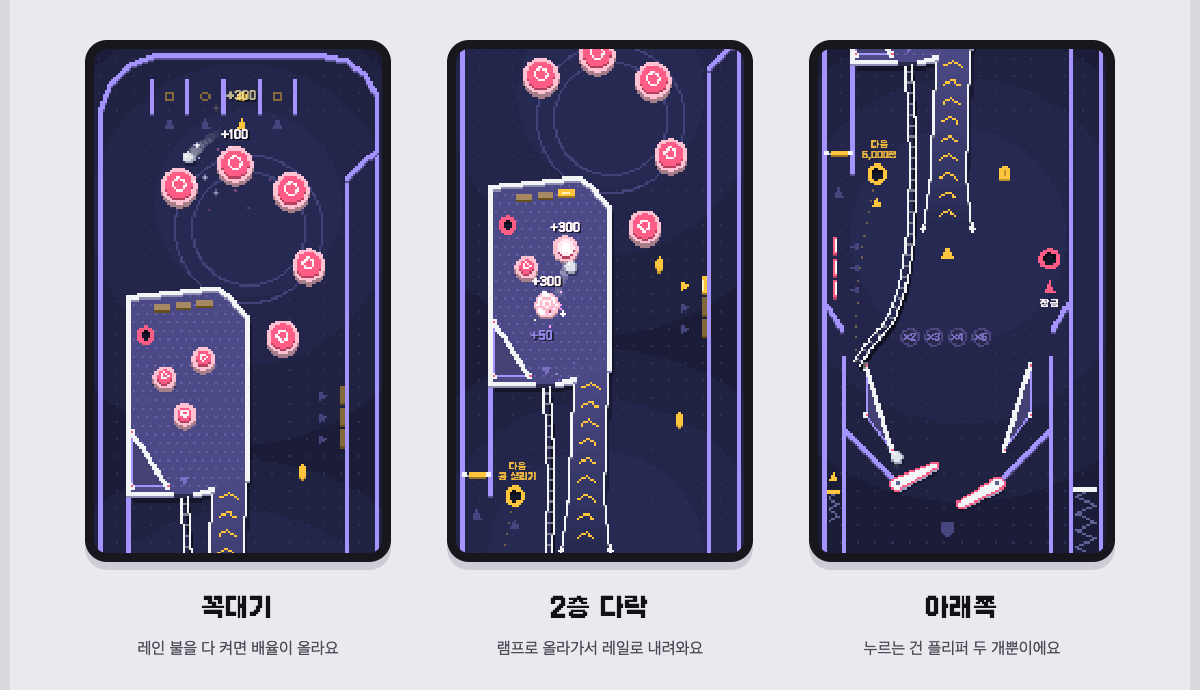
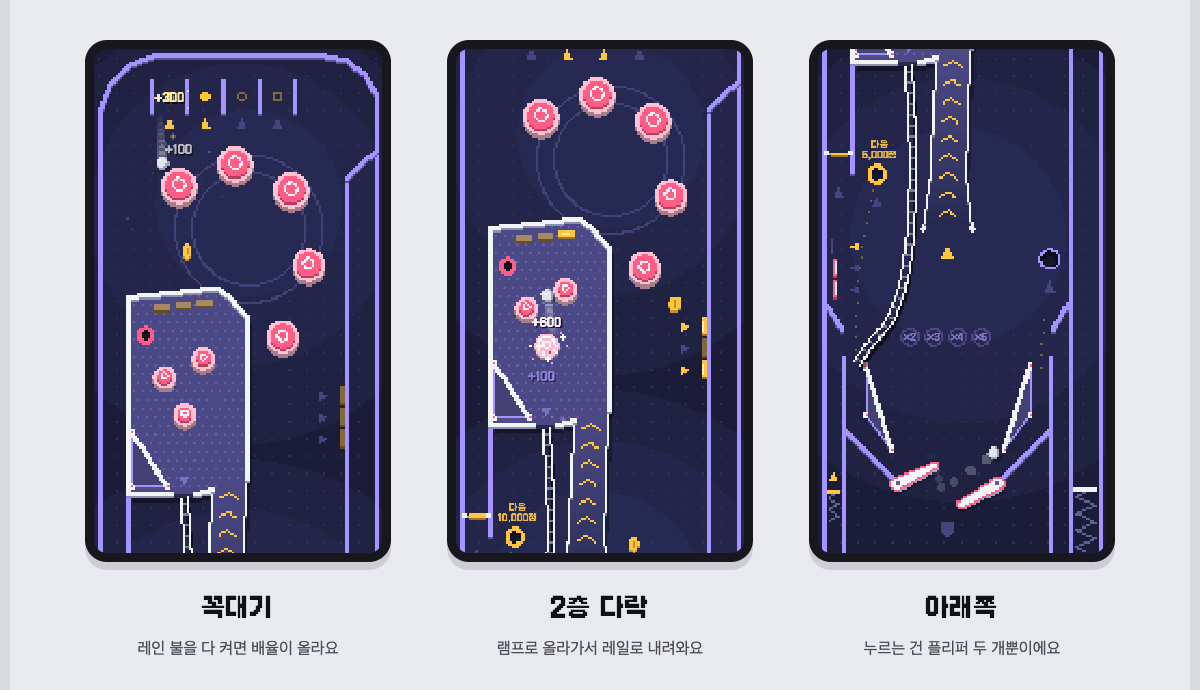
핀볼: 최종 검토에서 고친 것을 문서와 그림에 반영, 균형을 다시 잼
- 스펙 5.1~5.5, 6.1, 6.2, 9: 계산 간격, 잠금 구멍 미끄럼길, 공 살리기, 화면 따라가기, 경사 끝 좌표,
  고친 뒤 잰 값(무작위 봇 200판·1,200판, 반응 봇 200판), 최종 검토 뒤에 정한 것
- README: 공 살리기와 물리 설명, 테스트가 놓쳤던 잠금 구멍 문제
- 그림 세 장을 진짜 엔진·그리기 코드로 다시 찍음 (잠금 구멍 아래 점선이 생김)
- balance.test.ts: 코인 중앙값 기준을 30~90에서 35~60으로 좁힘

diff --git a/docs/superpowers/specs/2026-11-25-pinball-tower-design.md b/docs/superpowers/specs/2026-11-25-pinball-tower-design.md
@@ -1,6 +1,6 @@
 # 핀볼 새 판 "다락방 타워" 설계
 
-2026-11-25 · 상태: 사용자가 확정하고 진행을 지시함 · 만들기 끝 (브랜치 `pinball-tower`, 폰 확인 전)
+2026-11-25 · 상태: 사용자가 확정하고 진행을 지시함 · 만들기 끝, 최종 검토에서 나온 것까지 고침 (2026-11-26, 브랜치 `pinball-tower`, 폰 확인 전)
 
 ## 1. 왜 만드나
 
@@ -76,7 +76,7 @@
 | 7 | 범퍼 5개, 위쪽 레인 4개 | 예전 판은 3개씩이었어요 |
 | 8 | 돌아가는 길과 스피너 | 왼쪽 벽을 타고 꼭대기로 올라가요. 지나갈 때 스피너가 돌며 점수를 줘요 |
 | 9 | 보너스 구멍 | 들어갈 때마다 정해진 차례대로 보상을 하나 주고, 공을 미끄럼길로 왼쪽 플리퍼까지 내려 줘요 |
-| 10 | 드롭 타깃 3개 | 다 쓰러뜨리면 오른쪽 잠금 구멍에 불 → 넣으면 멀티볼 (예전 판과 같음) |
+| 10 | 드롭 타깃 3개 | 다 쓰러뜨리면 오른쪽 잠금 구멍에 불 → 넣으면 멀티볼 (예전 판과 같음). 잠금 구멍은 붙잡았던 공을 미끄럼길로 오른쪽 플리퍼까지 내려 줘요 |
 | 11 | 옆으로 빠지는 길과 킥백 | 왼쪽은 킥백이 켜져 있으면 한 번 살려 줘요 |
 | 12 | 오른쪽 타깃 3개 | 다 맞히면 킥백이 다시 켜져요 |
 
@@ -87,6 +87,7 @@
 - **램프가 판 가운데에 곧게 서요.** 처음 그림에서는 오른쪽에서 왼쪽으로 휘어 올라갔어요. 플리퍼 가운데쯤으로 친 공은 판 가운데(x 167~193)로 거의 곧게 올라가는데, 휜 램프는 난간에 크게 튕겨서 올라갈 수 있는 타이밍이 0.01~0.02초뿐이었어요. 곧은 램프는 어느 플리퍼로도 0.06초예요.
 - **다락 입구가 아래 오른쪽, 잭팟 구멍이 왼쪽 위로 갔어요.** 램프를 곧게 올라온 공이 오른쪽 벽을 타고 올라가 위쪽 타깃을 쓸고 범퍼로 떨어져요.
 - **보너스 구멍이 왼쪽으로 가고, 공을 뱉는 대신 미끄럼길로 내려 줘요.** 뱉으면 슬링샷이나 플리퍼에 세게 떨어져 가운데로 빠졌어요.
+- **잠금 구멍도 공을 뱉는 대신 미끄럼길로 내려 줘요.** 예전 판처럼 왼쪽 위로 뱉으면 가운데로 옮긴 램프의 난간에 맞고 돌아와 플리퍼 사이로 떨어졌어요 (5.3).
 - **레일이 램프 왼쪽 난간 옆으로 내려와요.** 처음 길은 보너스 구멍 위를 지나갔어요.
 - **바깥 길의 안쪽 벽이 판 바닥까지 이어져요.** 6.2에 이유를 적었어요.
 
@@ -111,12 +112,13 @@
 레일         (125,624) (130,680) (132,780) (128,880) (108,970) (70,1012) (52,1040) · 속도 180~620
 오른쪽 타깃  x=344 벽에 세로 막대 3개: y 470~494, 500~524, 530~554
 보너스 구멍  (82,774) 반지름 12 · 미끄럼길 (82,774) (64,850) (54,950) (51,1052) · 속도 240~520
-잠금 구멍    (322,892) 반지름 13
+잠금 구멍    (322,892) 반지름 13 · 미끄럼길 (322,892) (314,960) (309,1052) · 속도 240~520
 드롭 타깃    x=24에 세로 막대 3개: y 862~886, 892~916, 922~946
 배율 불      y=1000, x=128,161,194,227 (×2~×5)
 플리퍼       축 (110,1204) (250,1204), 길이 58, 쉬는 각 0.5rad, 올린 각 -0.45rad (오른쪽은 대칭)
 슬링샷       왼쪽 (66,1040) (66,1108) (102,1156). 오른쪽은 x=180 기준 대칭
-안쪽·바깥 길 나눔벽 x=36, y 1030~1129, 이어서 (36,1129)-(104,1198) 경사. 오른쪽은 대칭
+안쪽·바깥 길 나눔벽 x=36, y 1030~1129, 이어서 (36,1129)-(104,1197) 경사. 오른쪽은 대칭
+             경사 끝은 플리퍼 축보다 살짝 높아요. 1만 낮아도 속도가 거의 없는 공이 경사 끝과 축 사이에 얹혀 멈춰요
              바깥 길의 안쪽 벽은 (36,1129)에서 판 바닥 (36,1300)까지 이어져요. 오른쪽은 대칭
 지붕 가이드  (8,950)-(34,990), (350,950)-(326,990)
 킥백         감지 구역 x 10~36, y 1196~1300 · 머리 (22,1212) · 올려 보내는 길 (22,1202) (22,1045) (36,1010) (58,985) · 속도 900
@@ -132,7 +134,9 @@
 
 ### 5.3 물리
 
-지금 엔진의 방식은 그대로 써요: 한 프레임을 8번 나눠 적분, 속도 상한, 벽과 플리퍼를 두께 있는 선분(캡슐)으로 보는 충돌, 범퍼·슬링샷의 차는 힘.
+지금 엔진의 방식을 이어 써요: 속도 상한, 벽과 플리퍼를 두께 있는 선분(캡슐)으로 보는 충돌, 범퍼·슬링샷의 차는 힘.
+
+**계산 간격은 바꿨어요 (최종 검토에서 찾음).** 예전 엔진은 한 프레임을 8번으로 나눠 계산해서, 화면 주사율이 다른 폰마다 물리가 조금씩 달랐어요. 같은 순간에 플리퍼를 눌러도 0.6초 뒤 공의 자리가 30Hz 화면과 120Hz 화면에서 33만큼 차이 났어요. 이제는 화면이 초당 몇 번 그려지든 늘 960분의 1초 간격으로 계산하고, 남은 시간은 다음 프레임으로 넘겨요. 30Hz·60Hz·120Hz에서 같은 입력이면 같은 결과가 나와요 (`test/pinball/timestep.test.ts`). 순위표를 같이 쓰는 사람들의 판이 폰에 따라 달라지지 않게 하려는 거예요.
 
 **2층 다락은 같은 평면 위의 닫힌 방이에요.** 다락 테두리는 보통 벽이고, 다락 아래에는 1층 장치를 두지 않아요. 그래서 층이 겹치는 충돌 계산이 필요 없어요. 다락은 램프 입구와 출구 두 곳으로만 바깥과 이어져요. 실제로 다른 것 위를 지나가는 건 레일 하나뿐이에요.
 
@@ -160,7 +164,10 @@
 - 바깥 길의 안쪽 벽은 판 바닥까지 이어져요. 플리퍼 사이로 빠진 공은 옆으로 날아가도 킥백 자리에 들어가지 못하고, 바깥 길로 내려온 공은 킥백 자리를 비켜 가지 못해요.
 - 킥백 불은 공을 새로 받을 때마다 켜져요.
 
-**구멍 세 개.** 예전 판의 잠금 구멍과 같은 방식이에요. 공이 가운데에 가까이 오면 붙잡고, 잠깐 뒤에 놓아줘요. 잠금 구멍과 잭팟 구멍은 공이 곧장 빠지지 않는 쪽으로 뱉어요. 보너스 구멍은 뱉지 않고 미끄럼길(레일과 같은 정해진 길)로 왼쪽 안쪽 길까지 내려 줘요.
+**구멍 세 개.** 예전 판의 잠금 구멍과 같은 방식이에요. 공이 가운데에 가까이 오면 붙잡고, 잠깐 뒤에 놓아줘요.
+- 잭팟 구멍은 다락 안쪽으로 뱉어요.
+- 보너스 구멍과 잠금 구멍은 뱉지 않고 미끄럼길(레일과 같은 정해진 길)로 가까운 안쪽 길까지 내려 줘요. 보너스 구멍은 왼쪽, 잠금 구멍은 오른쪽이고 두 길은 좌우로 같은 모양이에요. 바닥에 점선으로 표시해요.
+- 잠금 구멍은 처음에 예전 판처럼 왼쪽 위로 뱉었어요. 그런데 램프를 판 가운데로 옮긴 뒤로는 그 공이 램프 오른쪽 난간에 맞고 돌아와서, 4번 중 3번은 플리퍼 사이로 떨어지고 1번은 구멍에 다시 빠졌어요. 이걸 잡아야 했던 테스트는 1초만 지켜봐서 한 번도 확인하지 못하고 있었어요. 최종 검토에서 찾아 미끄럼길로 바꾸고, 테스트는 공이 플리퍼 높이에 닿을 때까지 지켜보게 고쳤어요 (`test/pinball/orbit.test.ts`, 구멍마다 씨앗 40개).
 
 **발사.** 레인이 판 전체 높이(1300)로 길어져요. 꼭대기까지 가려면 1,440쯤의 속도가 필요해서 속도 상한을 1,700으로 올렸어요.
 - 3분의 1 넘게 당기면 레인을 빠져나가요 (속도 1,460~1,700). 세게 쏠수록 꼭대기에 빠르게 도착해서 더 왼쪽 레인까지 가요.
@@ -172,6 +179,7 @@
 **끼임 방지.**
 - 예전 판처럼 공이 2.5초 넘게 거의 멈춰 있으면 살짝 튕겨 줘요. 다만 예전에는 플리퍼를 누르고 있으면 튕겨 주지 않았는데, 이제는 올린 플리퍼 위에 받쳐 둔 공만 봐줘요. 예전 규칙으로는 플리퍼를 연타하는 동안 먼 곳에 낀 공이 풀리지 않았어요.
 - 공이 2층에 20초 넘게 있으면 출구로 보내 레일을 태워요 (내가 정함).
+- 멈춘 공을 튕겨 줄 때마다 엔진이 그 자리를 알려요 (`nudge` 사건). 화면에는 쓰지 않고 봇 테스트가 써요. 한 번이라도 나오면 그 자리에 공이 낀다는 뜻이라 테스트가 실패해요.
 
 ### 5.4 규칙과 점수
 
@@ -181,7 +189,7 @@
 |---|---|
 | 위쪽 레인 4개 | 지날 때 300. 넷을 다 켜면 3,000과 배율 +1. 플리퍼를 누르면 켜진 불이 옆으로 옮겨 가는 것도 지금과 같아요 |
 | 1층 범퍼, 슬링샷, 드롭 타깃, 잠금 구멍, 멀티볼, 잭팟 | 지금과 같아요 (100 / 30 / 500, 다 쓰러뜨리면 5,000 / 2,000 / 멀티볼 중 20,000) |
-| 스피너 | 공이 지나가면 속도에 따라 1~8번 돌아요. 한 번 돌 때마다 400 |
+| 스피너 | 공이 지나가면 속도에 따라 1~8번 돌아요. 한 번 돌 때마다 250 |
 | 오른쪽 타깃 | 불이 켜질 때 500 (켜진 타깃은 또 맞혀도 점수가 없어요). 셋을 다 맞히면 3,000을 주고 킥백을 다시 켜요. 1초 뒤 불이 꺼지고 다시 시작해요 |
 | 보너스 구멍 | 들어갈 때마다 다음 보상을 차례대로 줘요: 5,000점 → 코인 +10 → 10,000점 → 공 살리기 다시 켜기 → 잠금 불 켜기 → 다시 처음. 무작위가 아니에요. 다음 보상이 무엇인지 구멍 위에 글자로 보여 줘요 (예: "다음 코인 +10") |
 | 램프 | 2층에 올라가면 3,000. 12초 안에 또 올리면 2배, 3배로 커지고 5배까지예요 |
@@ -191,23 +199,26 @@
 | 2층 잭팟 구멍 | 불이 켜졌으면 다락 잭팟 30,000을 주고 불이 꺼져요. 꺼져 있으면 3,000 |
 
 - 콤보는 지금 규칙 그대로예요. 새 장치 중 2층 범퍼, 자동 키커, 오른쪽 타깃, 2층 타깃, 구멍은 콤보에 들어가고 스피너는 들어가지 않아요.
-- 판 위 동전은 최대 5개가 1층의 빈 곳에 생기고, 2.8초마다 하나씩 생겨요 (예전 판은 3개, 3.5초였어요. 판이 길어져서 그 값으로는 코인 수입이 줄어, 6.2의 측정으로 예전과 같아지는 값으로 정했어요). 다락, 램프, 발사 레인, 장치 근처에는 생기지 않아요.
-- 점수 구간 코인(1만 10개, 3만 20개, 5만 30개)과 공 3개, 공 살리기 8초는 그대로예요.
+- 판 위 동전은 예전 판과 같아요: 최대 3개가 1층의 빈 곳에 생기고, 3.5초마다 하나씩 생겨요. 다락, 램프, 발사 레인, 장치 근처에는 생기지 않아요. (만드는 도중에는 5개, 2.8초로 늘렸다가 되돌렸어요. 까닭은 6.2에 있어요.)
+- 점수 구간 코인(1만 10개, 3만 20개, 5만 30개)과 공 3개는 그대로예요.
+- **공 살리기는 세는 방법을 바꿨어요.** 예전 규칙은 "발사 뒤 8초 안에 잃으면 한 번 돌려준다"였어요. 예전 판은 공이 3.4초쯤이면 플리퍼 앞에 내려와서, 플리퍼 앞에서 지켜 주는 시간이 4.6초쯤 됐어요. 새 판은 내려오는 데 6초쯤 걸려서, 같은 규칙으로는 공이 플리퍼에 닿기도 전에 시간이 거의 다 지나가 있었어요 (4번 중 1번은 이미 끝나 있었어요). 최종 검토에서 찾았어요. 이제는 공이 아래쪽 길(y 1030 아래, 나눔벽 꼭대기)에 처음 내려온 뒤 5초 동안 지켜 주고, 그 전에는 시간이 가지 않아요. 발사 레인 안의 공은 내려온 것으로 세지 않아요. 무작위 봇이 한 판에 공을 돌려받는 횟수는 예전 판 1.87번, 글자 그대로 둔 새 판 1.22번, 지금 규칙 1.89번이에요.
 - 보너스 구멍의 코인도 한 판 코인 상한(400) 안에서만 줘요. 공 스킨의 코인 +% 능력은 판 위 동전에만 붙고 보너스 구멍 코인에는 붙지 않아요.
-- 보너스 구멍의 "공 살리기 다시 켜기"는 발사 직후와 같은 상태(8초, 한 번)로 되돌리는 거예요. "잠금 불 켜기"는 드롭 타깃을 다 쓰러뜨렸을 때와 같아요.
+- 보너스 구멍의 "공 살리기 다시 켜기"는 발사 직후와 같은 상태(공이 아래쪽 길에 내려온 뒤 5초, 한 번)로 되돌리는 거예요. "잠금 불 켜기"는 드롭 타깃을 다 쓰러뜨렸을 때와 같아요.
 - **보너스 구멍은 무작위로 주지 않아요.** 등급 신고와 스토어 설문(`docs/grac-rating.md`, `docs/android.md`)에 "무작위로 아이템이 나오는 뽑기는 없다"고 적었기 때문이에요. 처음 그림에서는 이 장치를 "뽑기 구멍"이라고 불렀는데, 이름과 방식을 모두 바꿨어요. 화면 문구에도 "뽑기"라는 말을 쓰지 않아요.
 
 ### 5.5 화면이 공을 따라가는 방식
 
 - 보이는 범위는 400×700이고, 위아래로 0~600만큼 움직여요.
-- **따라갈 공.** 판 위에 공이 하나면 그 공이에요. 여러 개면 1층에 있는 공 중 가장 아래에 있는 공이에요 (플리퍼에 가장 가까운 공). 1층에 공이 없으면 가장 아래 공이에요.
+- **따라갈 공.** 판 위에 공이 하나면 그 공이에요. 여러 개면 곧 플리퍼로 쳐야 할 공 가운데 가장 아래 공이에요: 1층에 있는 공, 그리고 레일이나 미끄럼길을 타고 내려오는 공. 2층 다락 안의 공과 발사 레인을 올라가는 공은 뒤로 미루고, 그런 공뿐이면 가장 아래 공을 따라가요.
 - **목표 위치.** 공이 화면 가운데보다 조금 위(위에서 38%)에 오게 하고, 공이 아래로 빠르게 내려올 때는 아래쪽을 더 보여 줘요. 공이 판 아래쪽 3분의 1에 있으면 화면은 맨 아래에 붙어서 플리퍼가 항상 보여요.
-- 화면은 부드럽게 따라가요. 다만 공이 화면 밖으로 나가려 하면 바로 따라붙어요.
+- 아래쪽을 미리 보여 주는 것은 공이 범퍼 구역을 벗어날 때부터 걸어요 (y 350에서 0, 550부터 전부). 범퍼가 공을 아래로 찰 때마다 화면이 끌려 내려갔다 돌아오면 화면이 출렁여요.
+- 화면은 부드럽게 따라가요. 다만 공이 화면 밖으로 나가려 하면 바로 따라붙어요. 따라붙는 속도에는 한계(1초에 2,400. 가장 빠른 공은 1,700)가 있어서, 따라가던 공이 빠져 멀리 있는 다른 공을 봐야 할 때는 한 번에 건너뛰지 않고 0.2초쯤에 걸쳐 옮겨 가요.
 - 화면 위치는 3의 배수로 맞춰요. 픽셀이 떨리지 않게 하려는 거예요.
 - 공이 발사대에 있을 때는 화면이 맨 아래에 있어요. 발사하면 공을 따라 올라가요.
 - 멀티볼 중 화면 밖에 있는 공은 화면 위쪽 가장자리에 작은 표시로 알려 줘요.
 - 이 계산은 그리기와 떼어 낸 순수 함수로 만들어 테스트해요.
 - **기준.** 벽에 부딪히지 않고 곧장 떨어지는 공이어도, 공이 플리퍼 높이에 닿기 0.2초 전에는 플리퍼가 화면에 다 보여야 해요. 세 가지 경우를 테스트해요(`test/pinball/camera.test.ts`): 멈췄다 떨어지는 공, 범퍼가 갑자기 아래로 차 낸 공, 이미 가장 빠르게 떨어지고 있는 공. 지금 수식은 목표 위치 `공 y − 266 + (아래 속도 × 0.3, −140~330 사이)`, 따라가는 비율 1초에 12배예요.
+- **최종 검토에서 고친 것.** 처음에는 길을 타는 공을 따라갈 후보에서 뺐고, 화면 밖 공은 한 번에 따라붙었어요. 그래서 멀티볼에서는 길이 끝나 플리퍼 앞에 내려선 순간이나 따라가던 공이 빠진 순간에 화면이 400~600씩 건너뛰었어요. 또 범퍼 구역에서는 화면이 1초에 1.2번쯤 위아래로 방향을 바꿨어요. 같은 판 100개(반응 봇, 프레임의 35%가 멀티볼)에 예전 방식과 지금 방식을 견주면, 한 프레임에 150 넘게 건너뛴 일이 1,635번에서 0번이 됐어요 (가장 큰 한 프레임 이동은 600에서 109로). 공이 플리퍼 높이에 닿기 전에 플리퍼가 보인 시간은 가장 짧은 1%가 0.37초에서 0.45초로 늘었어요. 0.2초에 못 미친 도착은 16,915번 가운데 2번(0.18~0.20초, 가장 빠르게 떨어지는 공)으로 전과 같아요. 무작위 봇 60판에서 공이 위쪽 구역에 있을 때 화면이 방향을 바꾸는 횟수는 초당 1.24번에서 0.71번으로, 그 폭은 174에서 84로 줄었어요.
 
 ### 5.6 그리기
 
@@ -251,7 +262,10 @@
 - 지금 규칙: 레인 배율, 드롭 타깃 → 잠금 → 멀티볼, 멀티볼 잭팟, 공 살리기, 콤보, 점수 구간 코인, 코인 상한, 점수 상한.
 - 보너스 구멍: 들어갈 때마다 정해진 차례대로 보상이 나와요.
 - 화면 따라가기: 따라갈 공 고르기, 범위 안에 머물기, 아래쪽에서는 맨 아래에 붙기.
-- 무작위 플레이: 난수로 플리퍼를 누르는 봇으로 여러 판을 돌려요. 숫자가 깨지지 않고(NaN 없음), 공이 판 밖으로 새지 않고, 5초 넘게 멈춘 공이 없고, 판이 끝까지 가요.
+- 무작위 플레이: 난수로 플리퍼를 누르는 봇으로 여러 판을 돌려요. 숫자가 깨지지 않고(NaN 없음), 공이 판 밖으로 새지 않고, 끼어서 엔진이 튕겨 준 공이 없고, 판이 끝까지 가요.
+- 계산 간격: 30Hz·60Hz·120Hz 화면에서 같은 입력이면 공이 같은 자리로 가요. 90Hz·144Hz처럼 나눠떨어지지 않는 주사율에서도 흐른 시간만큼 계산해요.
+- 구멍이 내보낸 공: 다시 구멍에 빠지거나 플리퍼 사이로 떨어지지 않고 플리퍼 위로 내려와요 (공이 플리퍼 높이에 닿을 때까지 지켜봐요).
+- 테스트 도구: 씨앗을 바꾸면 난수의 첫 값부터 달라져요. 봇으로 돌린 판은 엔진이 끼인 공을 튕겨 준 일을 문제로 적어요.
 
 ### 6.2 균형 기준
 
@@ -260,7 +274,7 @@
 - **무작위 봇**: 0.15~0.65초마다 왼쪽이나 오른쪽을 아무렇게나 0.12~0.32초 눌러요. 발사 세기는 75~100%예요.
 - **반응 봇**: 공이 플리퍼 바로 위(판 바닥에서 70~130 위)로 내려오면 그쪽 플리퍼를 눌러요.
 
-예전 판에서 300판씩 잰 값이에요 (2026-11-25, 고치기 전 엔진).
+예전 판에서 300판씩 잰 값이에요 (2026-11-25, 고치기 전 엔진. 테스트 난수를 고치기 전에 잰 값이라 아래 1,200판 표의 예전 판 값과 조금 달라요).
 
 | 봇 | 점수 중앙값 | 하위 10% / 상위 10% | 한 판 길이 중앙값 | 코인 중앙값 | 30,000점 넘긴 판 |
 |---|---|---|---|---|---|
@@ -273,36 +287,37 @@
 
 새 판이 맞춰야 하는 값이에요 (봇마다 200판).
 
-- 무작위 봇: 점수 중앙값이 예전 판의 1~2.5배 (약 25,000~62,000), 코인 중앙값 30~90.
+- 무작위 봇: 점수 중앙값이 예전 판의 1~2.5배 (약 25,000~62,000), 코인 중앙값이 예전 판(45)과 비슷해요 (35~60. 처음 기준은 30~90이었는데, 예전 판보다 24% 많은 65도 통과시켜서 좁혔어요).
 - 무작위 봇: 바깥 길로 잃는 공이 전체의 3분의 1을 넘지 않아요.
-- 반응 봇: 점수 중앙값이 상한(500만)에 닿지 않고, 한 판 길이 중앙값이 2~8분이에요. 반응 봇은 가운데로는 거의 잃지 않아서 대부분 바깥 길로 잃어요. 그래서 이 값이 바깥 길 틈의 크기를 정해요.
+- 반응 봇: 점수 중앙값이 상한(500만)에 닿지 않고, 한 판 길이 중앙값이 2~8분이에요. 반응 봇은 공의 70%를 바깥 길로 잃어서, 이 값은 바깥 길 틈의 크기에 민감해요.
 - 왼쪽 플리퍼에 얹힌 공을 제때 치면 램프에 올라가요. 봇이 아니라 정해진 타이밍으로 치는 테스트로 확인해요.
 - 어느 판도 점수와 코인이 상한을 넘지 않아요.
 
-새 판에서 200판씩 잰 값이에요 (2026-11-25, 균형을 맞춘 뒤).
+새 판에서 200판씩 잰 값이에요 (2026-11-26, 최종 검토에서 나온 것을 고친 뒤).
 
 | 봇 | 점수 중앙값 | 하위 10% / 상위 10% | 한 판 길이 중앙값 | 코인 중앙값 | 30,000점 넘긴 판 | 공을 잃은 곳 (가운데 / 왼쪽 / 오른쪽) |
 |---|---|---|---|---|---|---|
-| 무작위 | 29,850 | 18,290 / 67,040 | 43초 | 45 | 49% | 87% / 3% / 10% |
-| 반응 | 842,500 | 116,640 / 3,141,640 | 244초 | 245 | 100% | 51% / 10% / 39% |
+| 무작위 | 33,530 | 17,910 / 67,180 | 51초 | 45 | 59% | 81% / 6% / 13% |
+| 반응 | 960,840 | 200,410 / 3,130,590 | 305초 | 215 | 100% | 30% / 28% / 42% |
 
-반응 봇 200판 가운데 2판이 점수 상한에 닿았어요. 공이 끼거나 판 밖으로 나간 판은 없었어요.
+반응 봇 200판 가운데 4판이 점수 상한에 닿았어요. 공이 판 밖으로 나가거나, 끼어서 엔진이 튕겨 준 판은 없었어요. 끼임은 따로 무작위 봇 1,500판과 반응 봇 200판(합쳐서 42시간 분량)을 돌려도 0번이었어요.
 
-**중앙값은 판 수가 적으면 크게 흔들려요.** 같은 판을 씨앗만 바꿔 300판씩 재면 무작위 봇의 점수 중앙값이 21,000~28,000 사이를 오가요. 그래서 예전 판과 새 판을 똑같은 봇과 씨앗으로 1,200판씩(300판 네 묶음) 다시 견줬어요.
+**중앙값은 판 수가 적으면 크게 흔들려요.** 같은 판을 씨앗만 바꿔 300판씩 재면 무작위 봇의 점수 중앙값이 3,000쯤 오르내려요. 그래서 예전 판과 새 판을 똑같은 봇과 씨앗으로 1,200판씩(300판 네 묶음) 견줬어요.
 
-| 판 | 점수 중앙값 | 점수 평균 | 코인 중앙값 | 코인 평균 | 한 판 길이 | 30,000점 넘긴 판 |
-|---|---|---|---|---|---|---|
-| 예전 판 | 25,130 | 37,137 | 45 | 51.4 | 37초 | 39% |
-| 새 판 | 29,000 | 37,036 | 45 | 51.4 | 43초 | 47% |
+| 판 | 점수 중앙값 | 점수 평균 | 코인 중앙값 | 코인 평균 | 한 판 길이 | 30,000점 넘긴 판 | 한 판에 공을 돌려받은 횟수 |
+|---|---|---|---|---|---|---|---|
+| 예전 판 | 26,660 | 40,376 | 45 | 55.1 | 38초 | 44% | 1.87 |
+| 새 판 | 33,590 | 43,229 | 45 | 51.7 | 52초 | 59% | 1.98 |
 
-점수 평균과 코인은 예전 판과 같고, 점수 중앙값은 1.15배예요. 지뢰찾기가 열리는 30,000점은 조금 더 자주 넘겨요.
+코인은 예전 판과 같은 수준이에요 (중앙값이 같고 평균은 6% 적어요). 점수는 중앙값이 1.26배, 평균이 1.07배예요. 지뢰찾기가 열리는 30,000점은 더 자주 넘겨요. 한 판은 14초 길어요. 판이 길어져서 공이 내려오는 데 시간이 더 걸려요.
 
 균형을 맞추면서 바꾼 것이에요.
 
 - 새 장치의 점수를 올렸어요 (5.4의 표가 지금 값이에요). 처음 값으로는 무작위 봇 중앙값이 23,360으로 예전 판보다 낮았어요.
-- 판 위 동전을 3개에서 5개로 늘리고, 새 동전이 생기는 간격을 3.5초에서 2.8초로 줄였어요. 판이 길어져서 예전 값으로는 무작위 봇의 코인 수입이 예전 판보다 적었어요 (평균 43 대 51).
 - 바깥 길의 안쪽 벽을 판 바닥까지 이었어요. 벽이 없을 때는 플리퍼 사이로 빠진 공이 옆으로 날아가 왼쪽 킥백을 받는 일이 잦았어요 (무작위 봇 킥백 48번 가운데 23번).
-- 경사면에 얹힌 공이 미끄러지며 빨라지게 고친 뒤(5.3) 무작위 봇의 점수가 조금 내려가서, 스피너를 250에서 400으로 올렸어요.
+- 판 위 동전과 스피너 점수는 올렸다가 되돌렸어요. 경사면을 고친 뒤(5.3) 무작위 봇의 점수와 코인이 내려가서 동전을 5개·2.8초로, 스피너를 400으로 올렸어요. 그런데 진짜 까닭은 공 살리기가 제 구실을 못 한 것이었어요 (5.4). 공 살리기를 고치고 올린 값을 그대로 두면 코인이 예전 판보다 24% 많아져요 (1,200판 평균 68.3 대 55.1). 그래서 동전은 예전 판 값(3개, 3.5초)으로, 스피너는 250으로 되돌렸어요.
+
+**반응 봇의 숫자는 눈금으로만 써요.** 최종 검토 전에 잰 값은 중앙값 842,500점, 244초, 코인 245였어요. 잠금 구멍이 뱉은 공을 가운데로 떨어뜨리던 것(반응 봇이 잃은 공의 27%)과 공 살리기, 계산 간격을 고치자 반응 봇이 훨씬 오래 버텼어요 (약 209만 점, 448초, 200판 중 27판이 점수 상한). 그 뒤 안쪽 길 경사 끝을 1 올려 플리퍼 축 앞의 홈을 없애자(5.2) 다시 305초로 줄었어요. 경사를 타고 온 공이 축에 걸려 살짝 튀어 오르던 것이 없어져서 공이 플리퍼 위를 더 매끄럽게 지나가는데, 정해진 높이에서 무작정 누르는 반응 봇은 이런 작은 변화에 크게 흔들려요. 그래서 반응 봇의 값은 "잘하는 사람도 끝없이 버티지는 못한다"를 보는 눈금으로만 쓰고, 값 자체를 맞추려고 판을 고치지는 않았어요.
 
 `test/pinball/balance.test.ts`는 무작위 봇 200판, 반응 봇 40판으로 이 기준을 지켜요. 반응 봇은 한 판이 길어서 줄였고, 기준까지 여유가 커서 40판으로도 결과가 흔들리지 않아요.
 
@@ -352,6 +367,11 @@
 - 보너스 구멍은 공을 뱉지 않고 미끄럼길로 내려 준다.
 - 다락 출구를 1층 공에게는 벽으로 한다.
 - 바깥 길의 안쪽 벽을 판 바닥까지 잇는다.
-- 판 위 동전을 3개에서 5개로 늘리고, 생기는 간격을 3.5초에서 2.8초로 줄인다.
-- 스피너 점수를 400으로 올린다.
 - 플리퍼를 누르고 있어도 먼 곳에 낀 공은 튕겨 준다.
+
+**최종 검토 뒤에 내가 정한 것** (2026-11-26. 사용자가 바꿀 수 있어요)
+- 물리를 화면 주사율과 상관없이 960분의 1초 간격으로 계산한다 (예전 판에서 물려받은, 폰마다 물리가 다르던 문제).
+- 잠금 구멍은 공을 뱉지 않고 미끄럼길로 오른쪽 안쪽 길에 내려 준다.
+- 공 살리기를 "발사 뒤 8초"에서 "공이 아래쪽 길에 처음 내려온 뒤 5초"로 바꾼다. 사용자가 승인한 "예전 규칙 그대로"의 글자와는 다르지만, 플리퍼 앞에서 지켜 주는 시간을 예전 판과 같게 하려는 것이다.
+- 화면은 길을 타고 내려오는 공도 따라가고, 발사 레인의 공은 뒤로 미룬다. 멀리 있는 공으로 옮겨 갈 때 한 번에 건너뛰지 않는다. 범퍼 구역에서는 아래쪽을 미리 보여 주지 않는다.
+- 판 위 동전을 예전 판 값(3개, 3.5초)으로, 스피너 점수를 경사면을 고치기 전 값(250)으로 되돌린다. 5개·2.8초와 400은 공 살리기가 제 구실을 못 해서 줄어든 점수와 코인을 메우려고 올렸던 값이다.

diff --git a/README.md b/README.md
@@ -42,7 +42,7 @@ React 19 · TypeScript · Canvas 2D · Node.js 24 · PostgreSQL · Docker · Git
 - 위쪽 레인 불을 다 켜면 보너스 배율(×2~×5), 드롭 타깃을 다 쓰러뜨리면 구멍에 잠금 불 → 공을 넣으면 멀티볼(점수 2배), 멀티볼 중에 넣으면 잭팟
 - 왼쪽 바깥 길로 빠진 공을 한 번 살려 주는 킥백(오른쪽 타깃 셋을 맞히면 다시 켜져요), 들어갈 때마다 정해진 차례로 보상을 주는 보너스 구멍, 돌아가는 길의 스피너
 - 누른 시간만큼 스프링이 당겨지는 발사대 — 오래 누를수록 세게 나가고, 1초 뒤부터는 최대 힘에 머물러요
-- 발사 직후 공을 잃으면 한 번 돌려주는 공 살리기, 짧은 간격으로 계속 맞히면 쌓이는 콤보
+- 공이 플리퍼 앞에 내려온 뒤 5초 안에 잃으면 한 번 돌려주는 공 살리기, 짧은 간격으로 계속 맞히면 쌓이는 콤보
 - 공 3개, 판 위 동전과 점수 구간마다 보너스 코인
 
 ![핀볼 판의 세 구간: 꼭대기, 2층 다락, 아래쪽](docs/images/pinball-tower.png)
@@ -99,11 +99,11 @@ flowchart LR
 
 - 엔진(`src/pinball/engine.ts`)은 DOM에 의존하지 않는 순수 TypeScript로, Canvas 렌더러와 분리했어요. 화면 없이도 시뮬레이션을 돌려 공이 판 밖으로 빠지는 버그를 재현하고 고쳤어요.
 - 판 배치(`table.ts`), 규칙 숫자(`rules.ts`), 물리와 규칙(`engine.ts`), 화면 따라가기(`camera.ts`)를 서로 다른 파일로 나눴어요. 예전 판에서 이어받은 규칙의 테스트(`test/pinball/rules.test.ts`)는 장치 위치를 판 배치에서 읽어 써서, 판을 400×700에서 400×1300으로 바꾸는 동안에도 같은 규칙을 계속 확인했어요.
-- 2층 다락은 겹치는 층이 아니라 같은 평면 위의 닫힌 방이에요. 램프 입구는 올라온 공만, 출구는 다락 안의 공만 지나가는 한 방향 벽이라서 층이 겹치는 충돌 계산이 없어요. 다른 것 위를 지나가는 레일과 킥백, 보너스 구멍의 미끄럼길은 물리 대신 정해진 길(`path.ts`)을 따라 움직여요.
-- 화면이 공을 따라가는 규칙은 순수 함수로 두고, "아래로 떨어지는 공이 닿기 0.2초 전에는 플리퍼가 화면에 보인다"를 테스트로 지켜요.
-- 가짜 플레이어 둘(아무렇게나 누르는 봇, 공이 오면 누르는 봇)로 수백 판을 돌려 공이 끼거나 새는 곳을 찾고 점수와 코인의 균형을 맞췄어요(`test/pinball/soak·balance.test.ts`). 플리퍼 사이로 빠진 공이 옆으로 날아가 왼쪽 킥백을 받던 문제도 이렇게 찾았어요.
+- 2층 다락은 겹치는 층이 아니라 같은 평면 위의 닫힌 방이에요. 램프 입구는 올라온 공만, 출구는 다락 안의 공만 지나가는 한 방향 벽이라서 층이 겹치는 충돌 계산이 없어요. 다른 것 위를 지나가는 레일과 킥백, 두 구멍(보너스·잠금)의 미끄럼길은 물리 대신 정해진 길(`path.ts`)을 따라 움직여요.
+- 화면이 공을 따라가는 규칙은 순수 함수로 두고, "아래로 떨어지는 공이 닿기 0.2초 전에는 플리퍼가 화면에 보인다"를 테스트로 지켜요. 공이 여럿이면 곧 플리퍼로 쳐야 할 공을 따라가고, 따라가던 공이 빠져도 화면이 한 번에 건너뛰지 않아요.
+- 가짜 플레이어 둘(아무렇게나 누르는 봇, 공이 오면 누르는 봇)로 수백 판을 돌려 공이 끼거나 새는 곳을 찾고 점수와 코인의 균형을 맞췄어요(`test/pinball/soak·balance.test.ts`). 플리퍼 사이로 빠진 공이 옆으로 날아가 왼쪽 킥백을 받던 문제도 이렇게 찾았어요. 반대로 테스트가 놓친 것도 있었어요. 잠금 구멍이 뱉은 공이 플리퍼 사이로 떨어지던 문제는 테스트가 1초만 지켜보다 지나쳤고, 코드 검토에서 찾은 뒤 공이 플리퍼에 닿을 때까지 지켜보게 고쳤어요.
 - 벽돌깨기도 같은 구조예요. 규칙(`src/breakout/rules·stages·engine.ts`)은 화면·SDK 없이 `node --test`로 바로 테스트하고, 난수와 스테이지 생성기를 바꿔 끼워 같은 판을 재현해요. 한 프레임을 1/240초씩 나눠 가장 빠른 공도 벽돌을 뚫지 않아요.
-- 한 프레임을 8번 나눠 적분하고 속도 상한을 둬서, 빠른 공이 얇은 벽을 뚫고 지나가지 않게 했어요.
+- 물리는 화면 주사율과 상관없이 늘 960분의 1초 간격으로 계산해요. 30Hz·60Hz·120Hz 어느 폰에서나 같은 순간에 플리퍼를 누르면 공이 같은 자리로 가요(`test/pinball/timestep.test.ts`). 속도 상한이 있어서 빠른 공이 얇은 벽을 뚫지 않고, 경사면에 얹힌 공은 미끄러지며 빨라져요.
 - 벽과 플리퍼를 두께 있는 선분(캡슐)으로 보고 공과의 최근접점으로 충돌을 계산해요. 움직이는 플리퍼는 표면 속도를 반영해 공을 쳐 올려요.
 - 발사 레인 바닥은 올라가는 공과는 부딪치지 않는 한 방향 벽이고, 공이 판에 들어가면 게이트가 닫혀 레인으로 되돌아가지 않아요.
 
